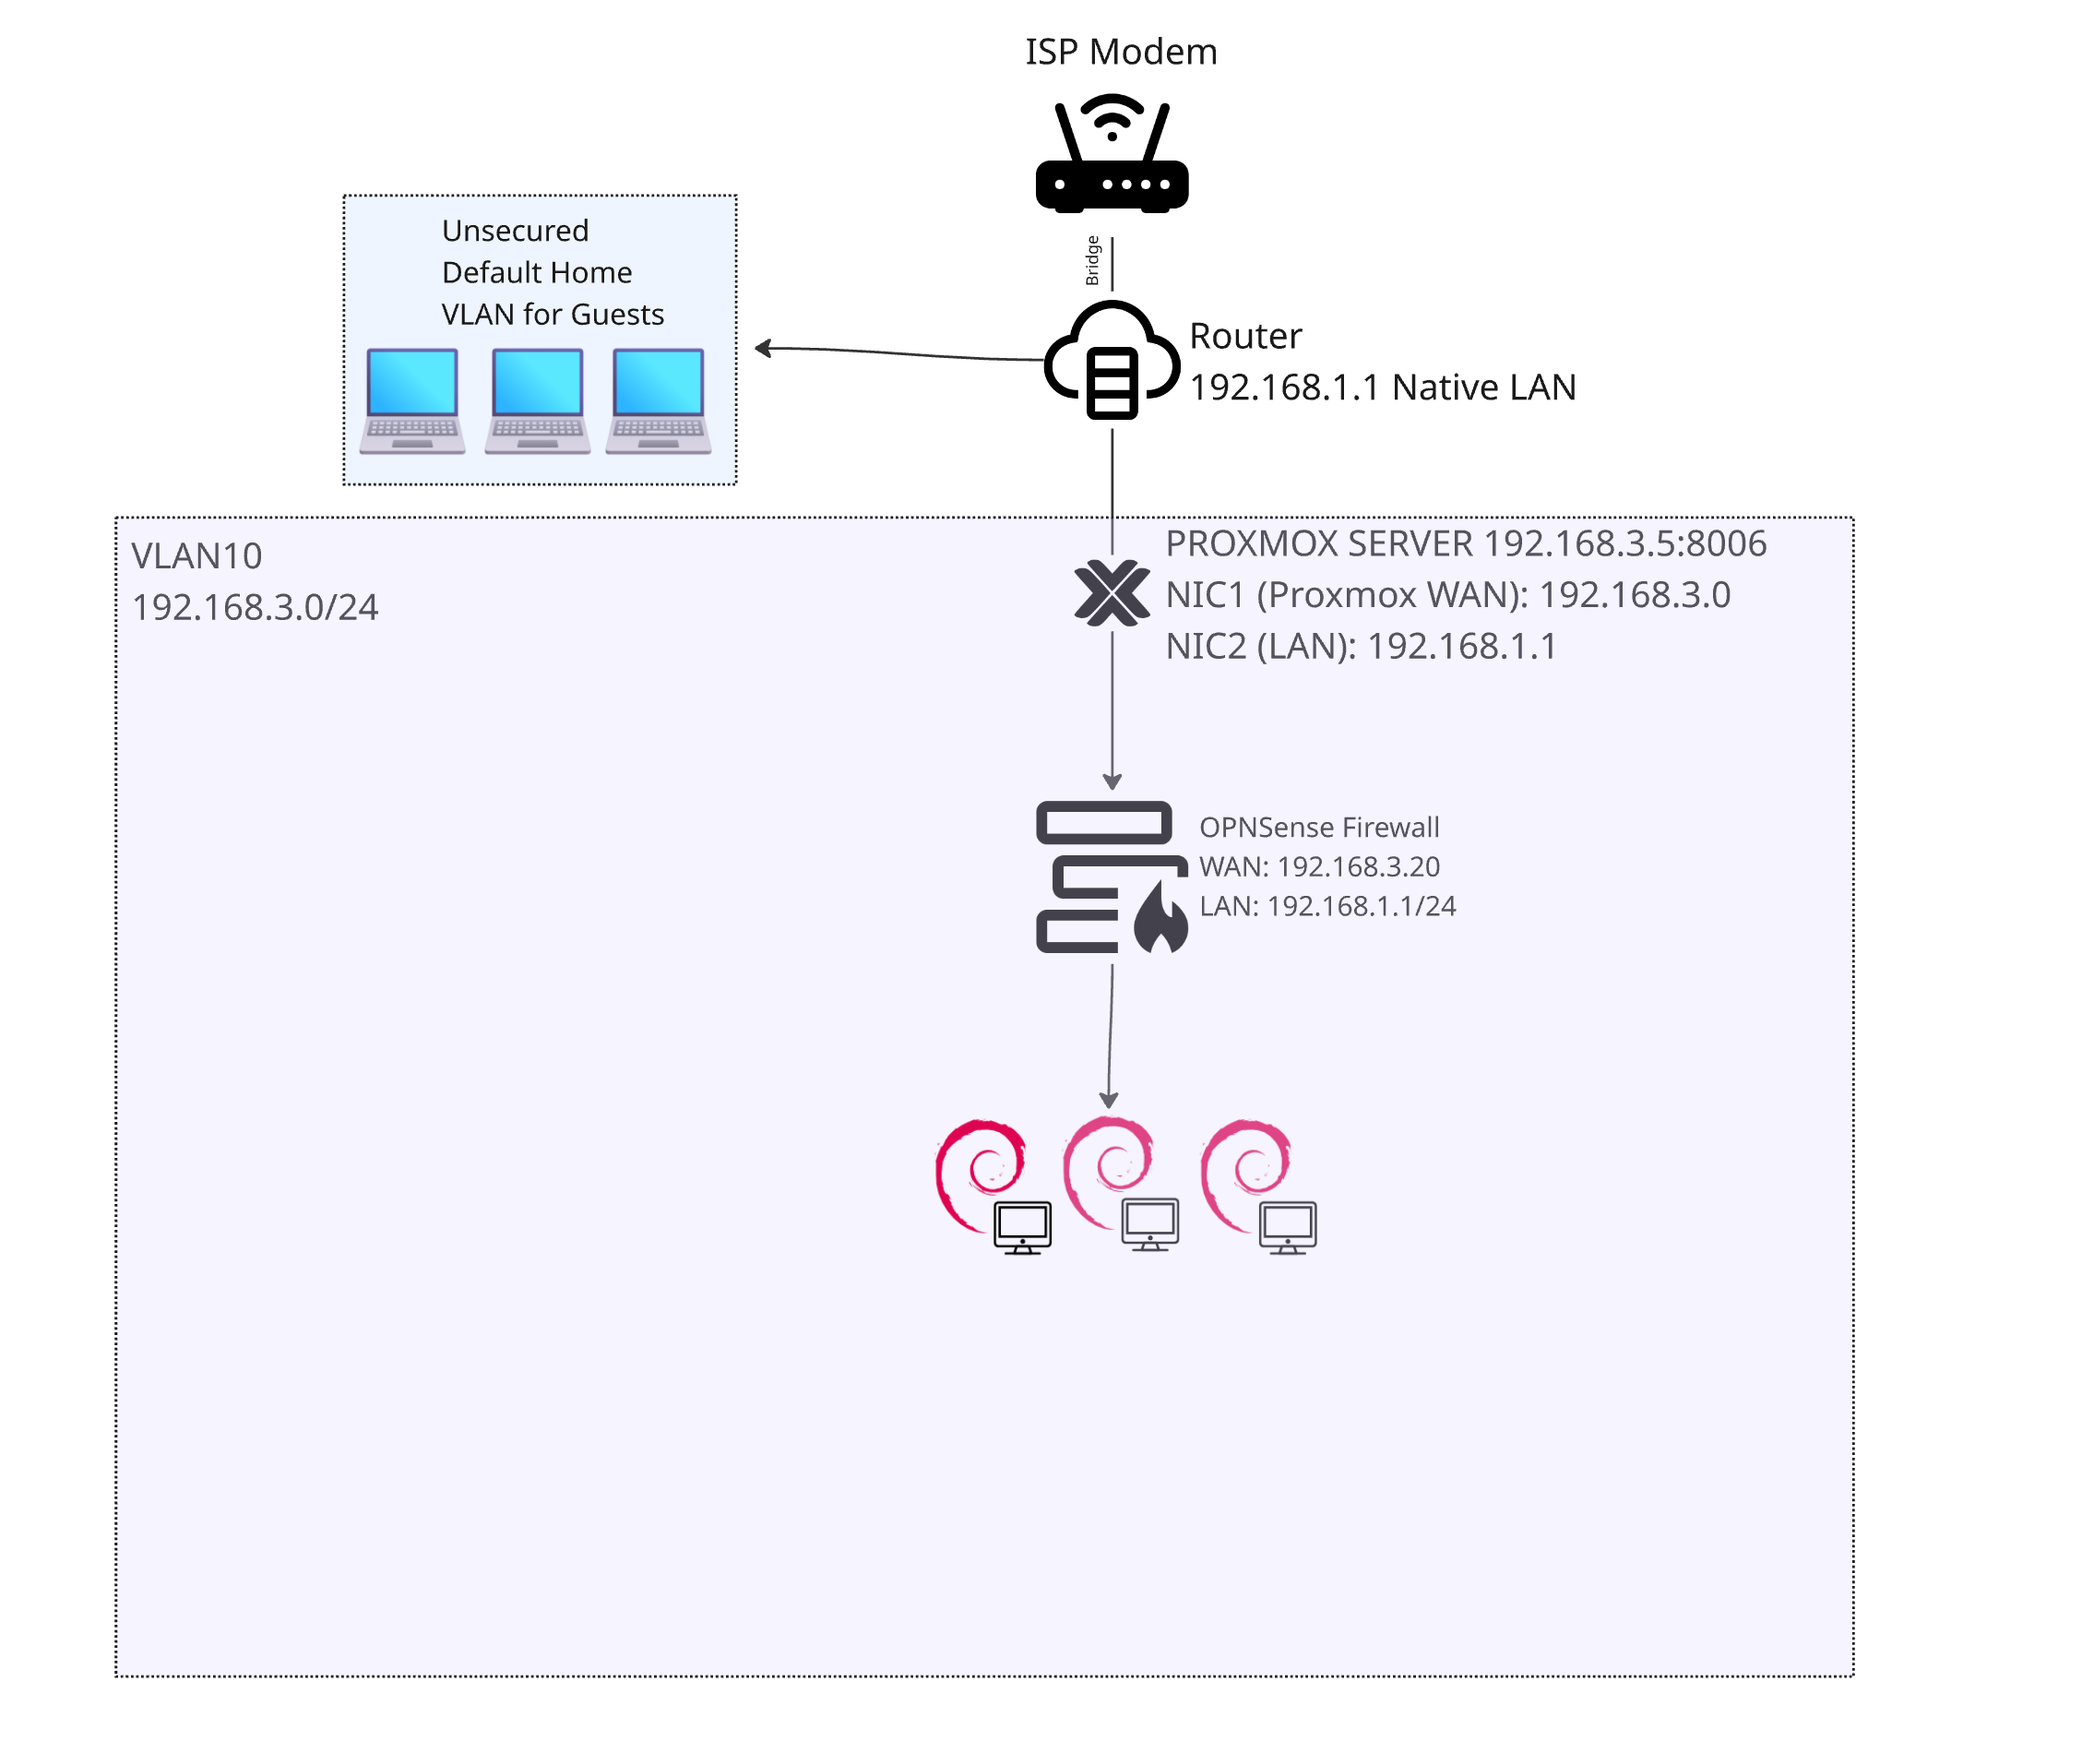
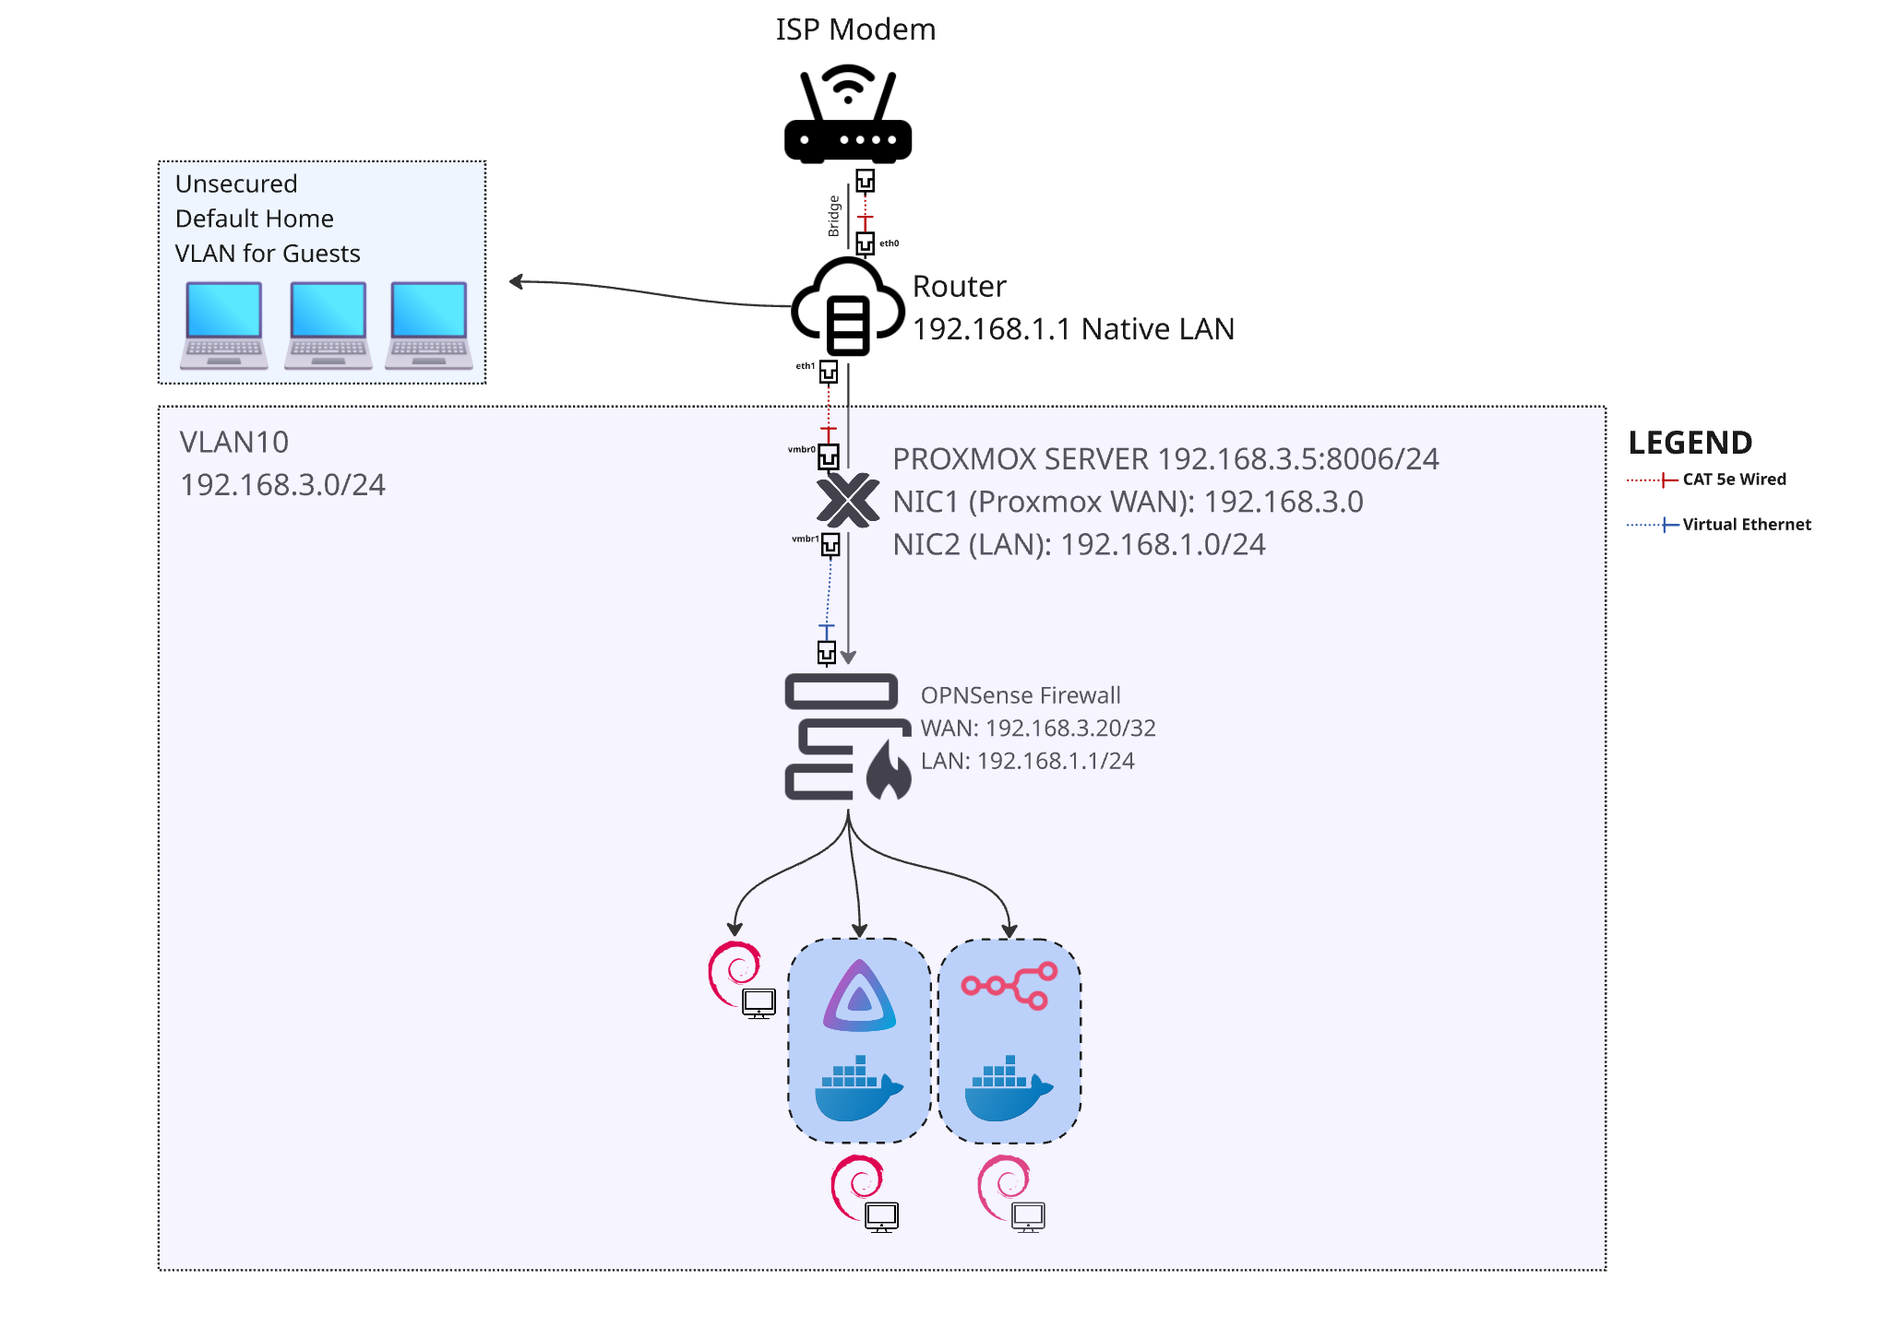
Added Firewall config overview, network diagram overview updated. Aug 10, 2025

Changed region(s): [[0.3732, 0.0, 0.964, 0.9298], [0.0622, 0.124, 0.3732, 0.3719], [0.1866, 0.093, 0.2177, 0.124]]

diff --git a/README.md b/README.md
@@ -4,4 +4,7 @@ This repository covers network diagrams, configurations, and hardware used in my
 ## Purpose
 A visual and written representation to my personal home lab used in my home environment. This serves as a point of reference for my knowledge and third-party viewers who'd like to see into my build and determine if my skills suite their needs. As a secondary purpose, if any new to homelabbing user want's to view a diagram and see configurations that are used in a home lab that focuses on network infrastructure, network security, and automations; this repository will also present a visual path for them to replicate and learn from.
 
+## Quick links around the repo
+If you'd like to view a network diagram of the lab, this can [be viewed through this hyperlink to the network diagram.](https://github.com/sphereofactivity/Home-Labs/blob/main/Network%20Overview.png)
+
 Thanks for reading for far!
